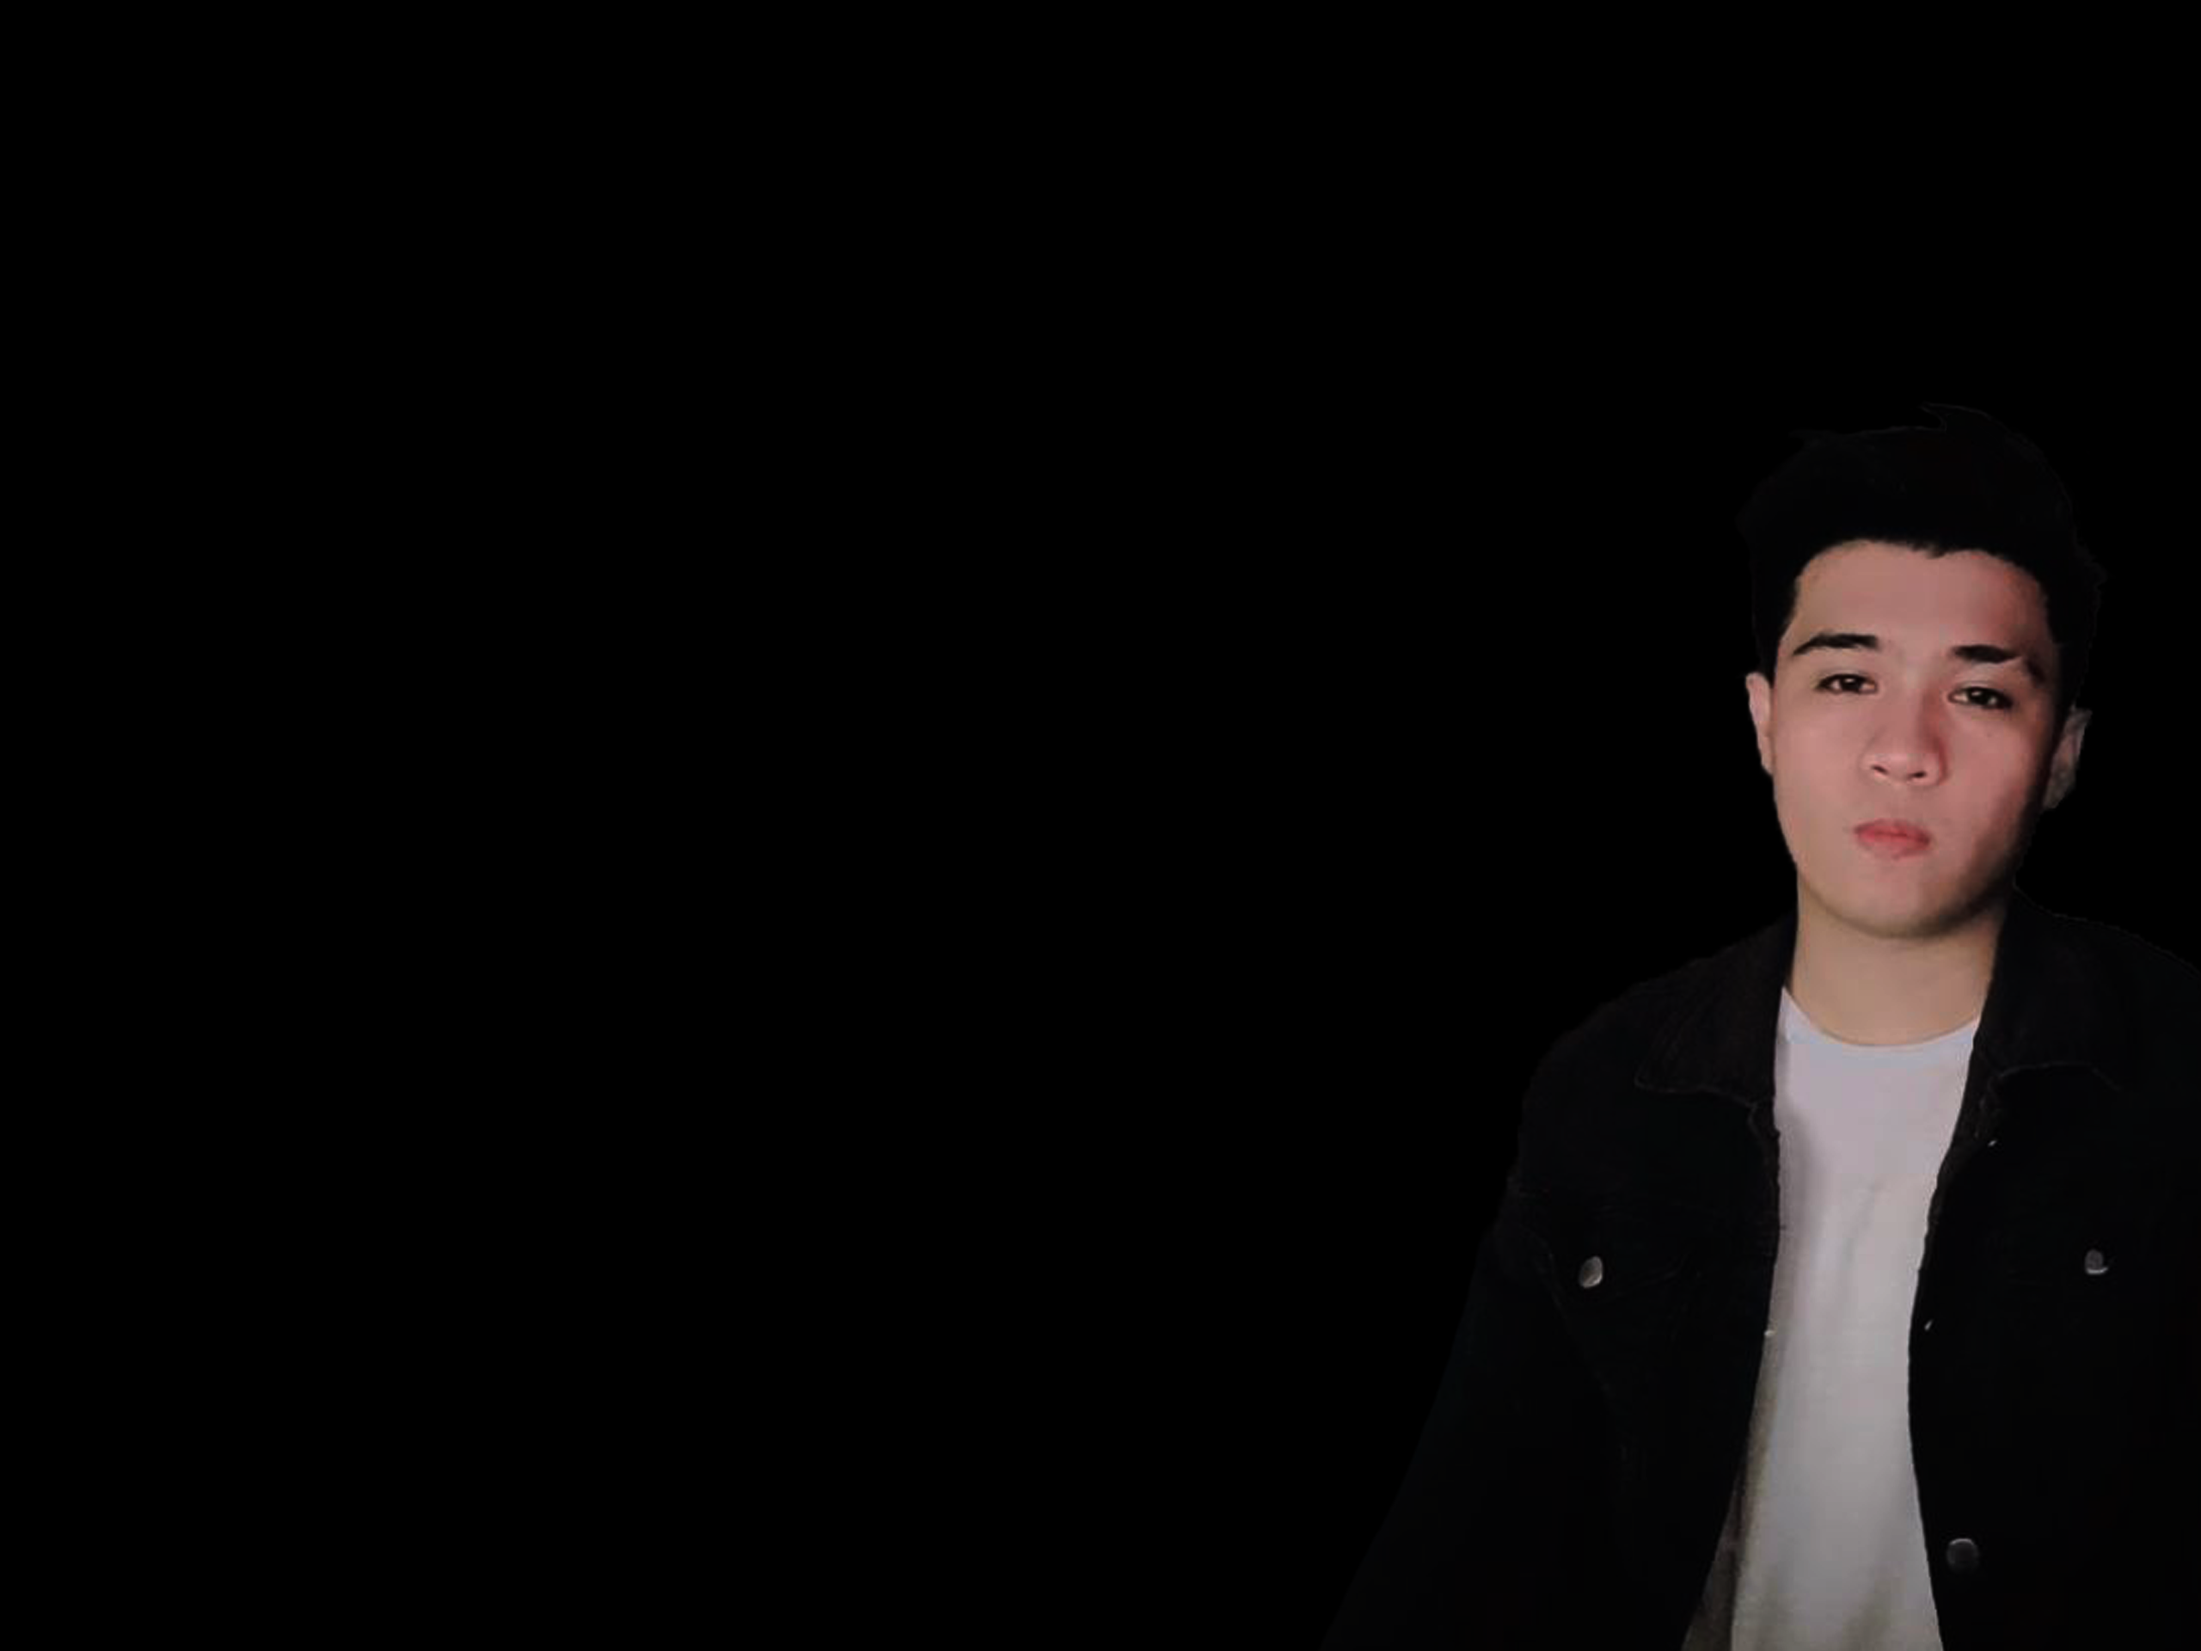
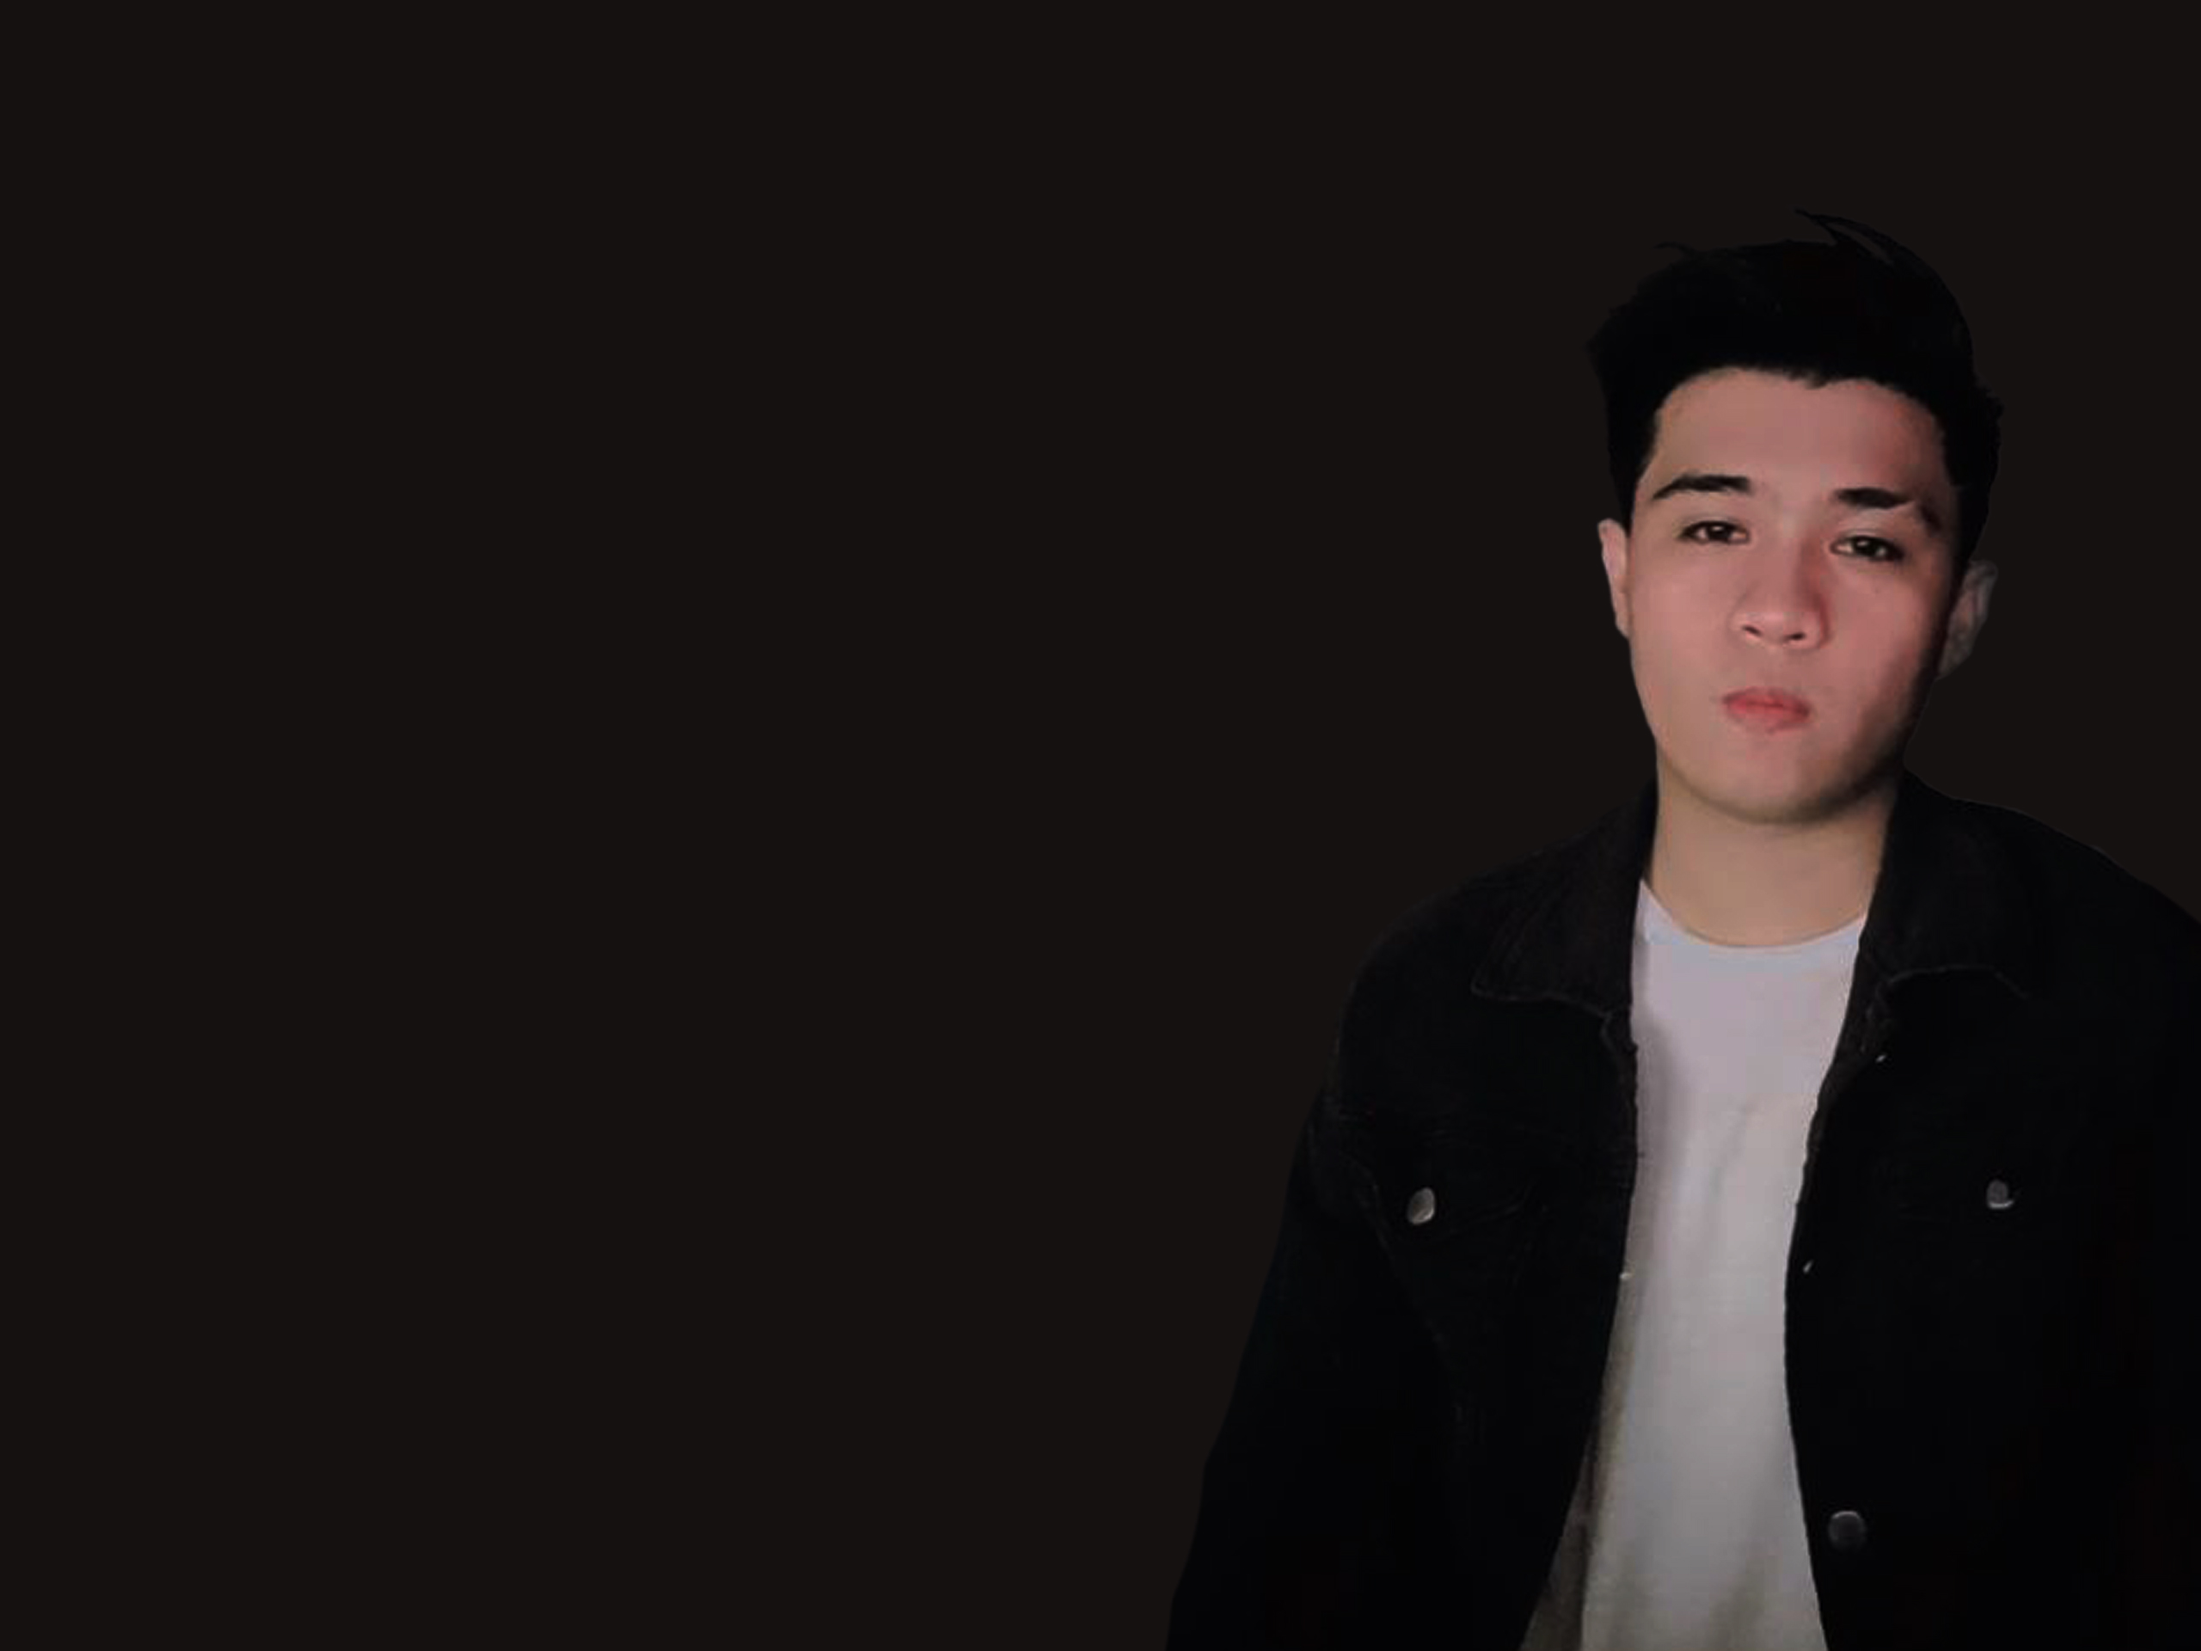
Fixed my image background and font size of hero section

Changed region(s): [[0.6875, 0.2188, 0.9688, 1.0], [0.9375, 0.75, 0.9688, 0.7812], [0.625, 0.7188, 0.6562, 0.75]]

diff --git a/styles.css b/styles.css
@@ -30,7 +30,7 @@ span{
 h1{
     color: white;
     margin: 20px 0px 20px;
-    font-size: 75px;
+    font-size: 70px;
 }
 h3{
     color: white;
@@ -421,7 +421,7 @@ h100 {
     left: 0;
     height: 150%;
     width: 100%;
-    background-color: black;
+    background-color: rgb(21, 17, 17);
     border-left: 2px solid white;
     animation: animate 4s steps(12) infinite;
 }
@@ -617,6 +617,13 @@ h2 {
     #menu-icon{
         display: block;
         margin-right: 20px;
+    }
+    h1{
+        font-size: 60px;
+    }
+    .container-animation .text-animation{
+        font-size: 25px;
+        
     }
     .navbar-header{
         position: absolute;
